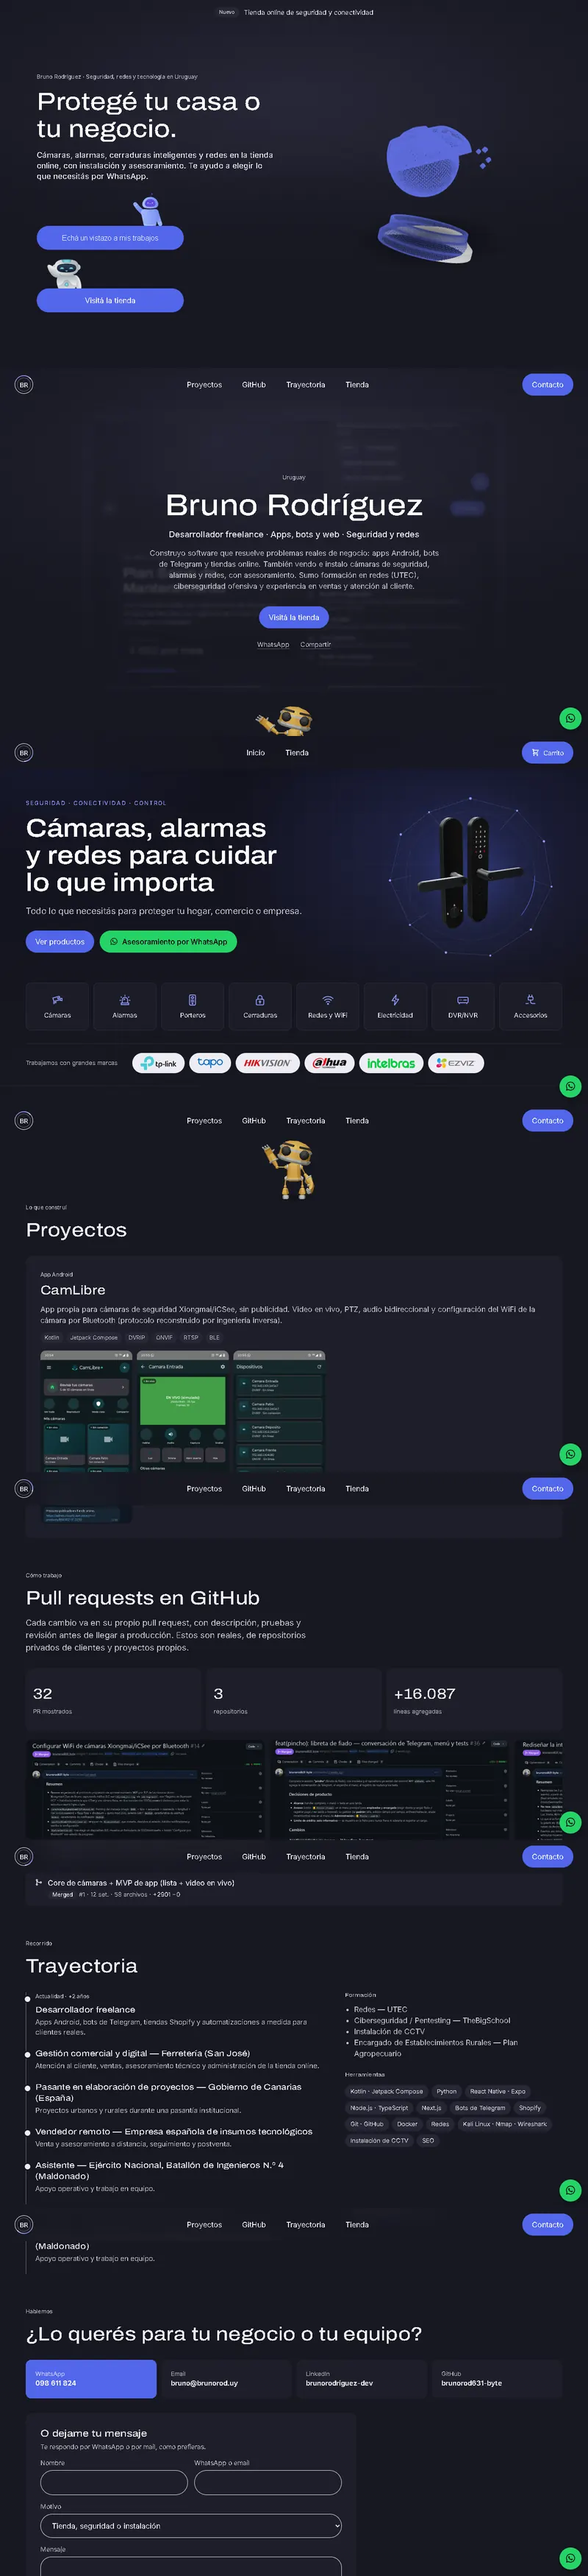
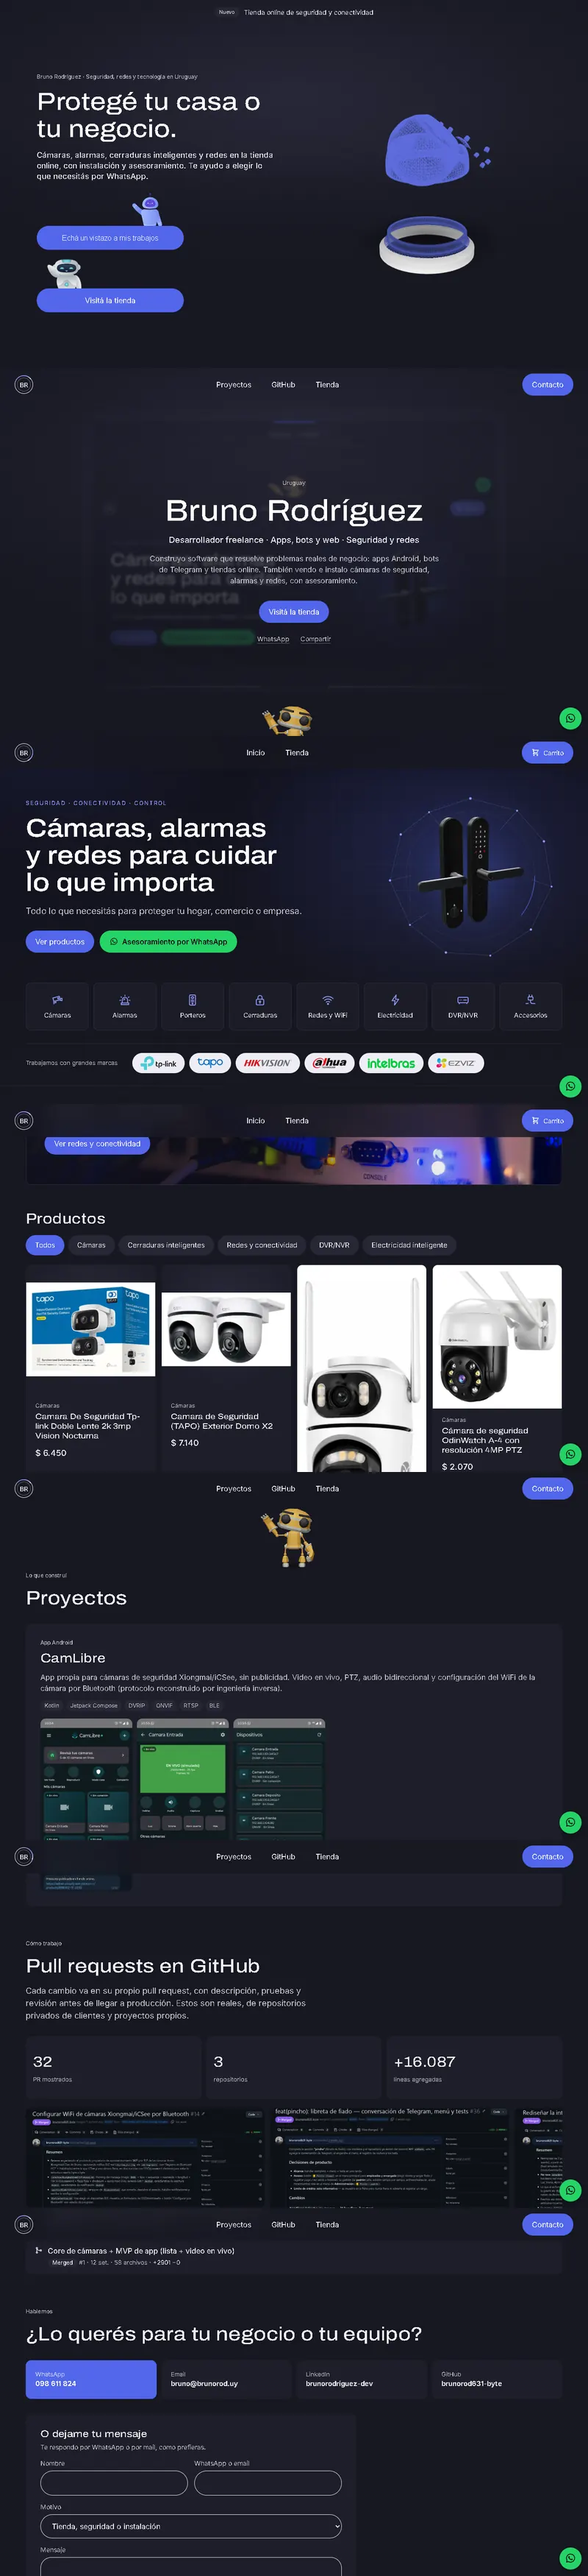
Laptop de fondo: productos de la tienda en lugar de la trayectoria

diff --git a/index.html b/index.html
@@ -61,7 +61,7 @@
 
   <header id="inicio" class="hero wrap">
     <div class="laptop" aria-hidden="true">
-      <div class="laptop-tapa"><div class="laptop-pantalla"><img src="img/laptop/pantallas.webp?v=3" alt="" width="800" height="3500" decoding="async" /></div></div>
+      <div class="laptop-tapa"><div class="laptop-pantalla"><img src="img/laptop/pantallas.webp?v=4" alt="" width="800" height="3500" decoding="async" /></div></div>
       <div class="laptop-base"></div>
     </div>
     <p class="kicker" id="lugar"></p>
